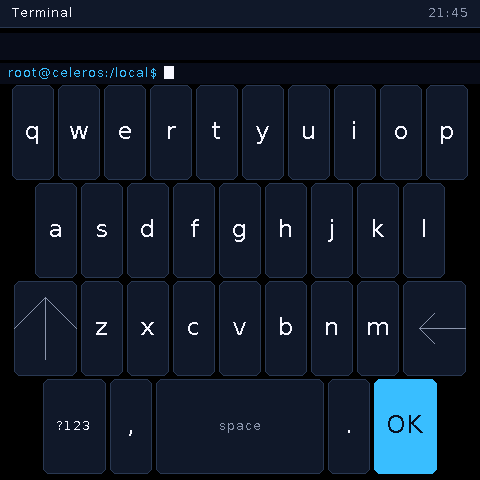
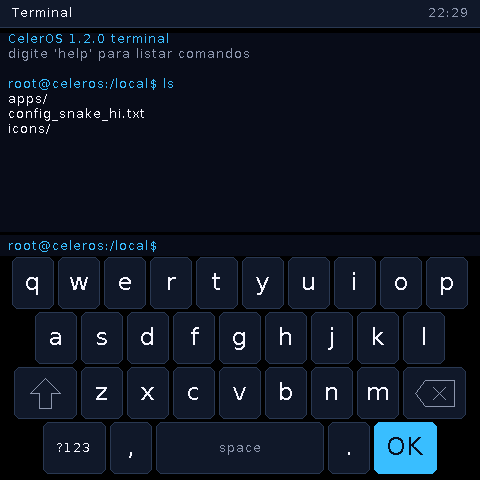
Keyboard v2: teclas com proporcao fixa (1.25x da largura, bloco ancorado no rodape) — fim do teclado comendo a tela (teclas de ~95px no 480x480, 21x63 no CYD); setas redesenhadas (shift = seta de contorno, cheia com o maiusculo ativo; backspace = classico com X); validado no hardware SmartDisplay, s

diff --git a/main/UI/Keyboard.cpp b/main/UI/Keyboard.cpp
@@ -16,25 +16,49 @@ static const char* SY1_ROWS[3] = {"1234567890", "@#$%&-+()/", "*\"':;!?"};
 static const char* SY2_ROWS[3] = {"~`|\\_<>[]{", "}=^*\"'-+/", "*\"'=+!?"};
 
 // ---- glifos desenhados (fontes nativas nao tem setas) ----------------------
+// Setinha de shift (contorno, cheia quando ativo) e backspace classico
+// (pentagono com X), dimensionados pela menor face da tecla.
 
-static void drawShiftGlyph(Canvas& c, const Rect& r, uint32_t col) {
-    int cx = r.x + r.w / 2;
-    int cy = r.y + r.h / 2;
-    int half = r.h / 3;
-    if (half > r.w / 2) half = r.w / 2;
-    c.drawLine(cx - half, cy, cx, cy - half, col);      // chevron
-    c.drawLine(cx, cy - half, cx + half, cy, col);
-    c.drawLine(cx, cy - half + 1, cx, cy + half, col);   // haste
+static void drawShiftGlyph(Canvas& c, const Rect& r, uint32_t col, bool filled) {
+    const int cx = r.x + r.w / 2;
+    const int cy = r.y + r.h / 2;
+    const int s = r.w < r.h ? r.w : r.h;
+    const int hw = s * 3 / 10;   // meia-largura da cabeca
+    const int hh = s * 3 / 10;   // altura da cabeca
+    const int sw = s / 8;        // meia-largura da haste
+    const int sh = s * 3 / 10;   // profundidade da haste
+    if (filled) {
+        c.fillTriangle(cx, cy - hh, cx - hw, cy + sw, cx + hw, cy + sw, col);
+        c.fillRect({cx - sw, cy, 2 * sw, sh}, col);
+        return;
+    }
+    c.drawLine(cx, cy - hh, cx - hw, cy, col);           // ombro esquerdo
+    c.drawLine(cx - hw, cy, cx - sw, cy, col);
+    c.drawLine(cx - sw, cy, cx - sw, cy + sh, col);      // desce a haste
+    c.drawLine(cx - sw, cy + sh, cx + sw, cy + sh, col);
+    c.drawLine(cx + sw, cy + sh, cx + sw, cy, col);      // sobe a haste
+    c.drawLine(cx + sw, cy, cx + hw, cy, col);
+    c.drawLine(cx + hw, cy, cx, cy - hh, col);           // ombro direito
 }
 
 static void drawBackGlyph(Canvas& c, const Rect& r, uint32_t col) {
-    int cx = r.x + r.w / 2;
-    int cy = r.y + r.h / 2;
-    int half = r.h / 3;
-    if (half > r.w / 2) half = r.w / 2;
-    c.drawLine(cx - half / 2, cy, cx + half, cy, col);                 // corpo
-    c.drawLine(cx - half / 2, cy, cx - half / 2 + half / 2, cy - half / 2, col);  // ponta
-    c.drawLine(cx - half / 2, cy, cx - half / 2 + half / 2, cy + half / 2, col);
+    const int cy = r.y + r.h / 2;
+    const int s = r.w < r.h ? r.w : r.h;
+    const int gw = s * 3 / 4;   // largura total do glifo
+    const int hh = s / 4;       // meia-altura do corpo
+    const int tip = s / 5;      // profundidade da ponta
+    const int x0 = r.x + (r.w - gw) / 2;  // ponta (esquerda)
+    const int xb = x0 + tip;              // inicio do corpo
+    const int x1 = x0 + gw;               // direita
+    c.drawLine(x0, cy, xb, cy - hh, col);
+    c.drawLine(xb, cy - hh, x1, cy - hh, col);
+    c.drawLine(x1, cy - hh, x1, cy + hh, col);
+    c.drawLine(x1, cy + hh, xb, cy + hh, col);
+    c.drawLine(xb, cy + hh, x0, cy, col);
+    const int ccx = (xb + x1) / 2;        // X dentro do corpo
+    const int k = s / 8;
+    c.drawLine(ccx - k, cy - k, ccx + k, cy + k, col);
+    c.drawLine(ccx - k, cy + k, ccx + k, cy - k, col);
 }
 
 // ============================================================ KeyboardScreen
@@ -63,20 +87,18 @@ void KeyboardScreen::rebuild() {
     const int u = (UI::W - 2 * UI::sx(4) - 9 * g) / 10;
     if (u < 4) return;  // display impossivel: sem keys, so field
 
-    int top;
     const int rowGap = UI::sy(2);
-    int keyH;
-    if (m_showField) {
-        Rect f = fieldRect();
-        top = f.y + f.h + UI::sy(5);
-        keyH = (UI::H - top - UI::sy(2) - 3 * rowGap) / 4;
-        if (keyH < 12) keyH = 12;
-    } else {
-        // acoplado (System.keypad*): teclado compacto, ancorado no rodape —
-        // sobra o resto da tela para o app (System.keypadRect)
-        keyH = UI::sy(32);
-        top = UI::H - UI::sy(4) - (4 * keyH + 3 * rowGap);
-        if (top < 0) top = 0;
+    // Tecla com proporcao fixa (~1.25x a largura), bloco ancorado no rodape:
+    // preencher o resto da tela virava tecla de 90px+ (teclado comendo a tela
+    // no 480x480). O espaco que sobra fica entre o campo e as teclas.
+    const int bottom = UI::H - UI::sy(4);
+    int keyH = u + u / 4;
+    int top = bottom - (4 * keyH + 3 * rowGap);
+    const int minTop = m_showField ? fieldRect().y + fieldRect().h + UI::sy(5) : UI::sy(2);
+    if (top < minTop) {  // pouco espaco: encolhe as teclas para caber
+        top = minTop;
+        keyH = (bottom - top - 3 * rowGap) / 4;
+        if (keyH < 12) keyH = 12;  // display minimo: deixa transbordar
     }
     m_keysTop = top;
 
@@ -185,7 +207,7 @@ void KeyboardScreen::draw(Canvas& c) {
             case KShift:
                 c.fillRoundRect(r, UI::sx(3), (m_mode == Upper || flash) ? THEME_ACCENT_D : THEME_CARD);
                 c.drawRoundRect(r, UI::sx(3), THEME_STROKE);
-                drawShiftGlyph(c, r, m_mode == Upper ? THEME_TEXT : THEME_TEXT_DIM);
+                drawShiftGlyph(c, r, m_mode == Upper ? THEME_TEXT : THEME_TEXT_DIM, m_mode == Upper);
                 break;
             case KSymPage:
                 c.fillRoundRect(r, UI::sx(3), flash ? THEME_ACCENT_D : THEME_CARD);

diff --git a/main/UI/Keyboard.h b/main/UI/Keyboard.h
@@ -7,7 +7,8 @@
 // Layout padrao de teclado virtual (Android/iOS): linhas escalonadas, shift
 // one-shot, duas paginas de simbolos, espaco/backspace/OK na linha de baixo
 // e X (cancelar) no cabecalho. A geometria e calculada por tela (240x320 de
-// design via UI::sx/sy no cabecalho; teclas preenchem o resto) e a MESMA
+// design via UI::sx/sy no cabecalho; teclas ~1.25x mais altas que largas,
+// bloco ancorado no rodape — nunca "preenche o resto da tela") e a MESMA
 // lista de Rects desenha e faz hit-test.
 //
 // Duas formas de usar:
